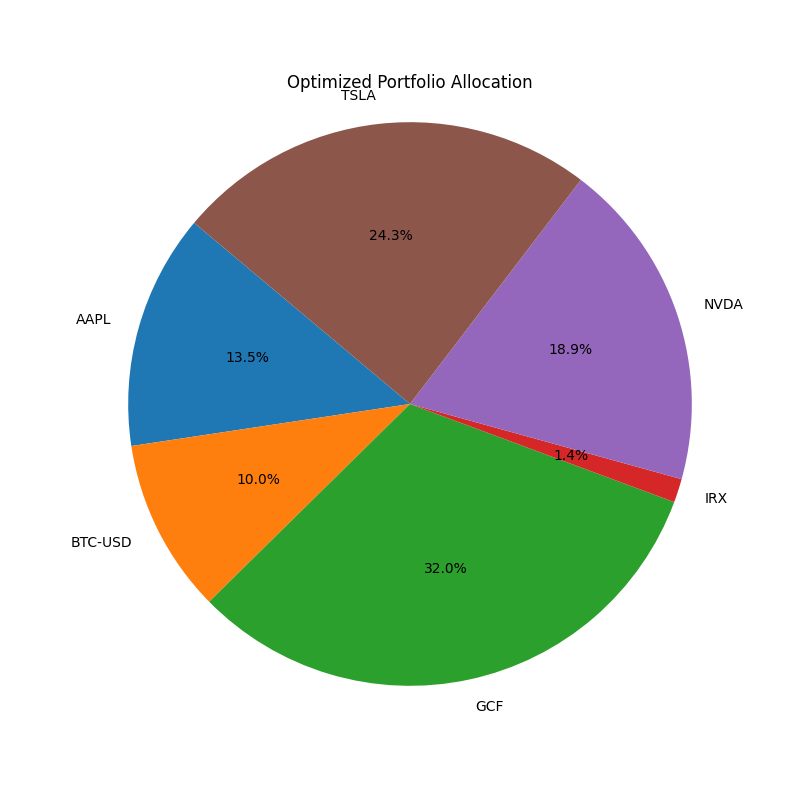
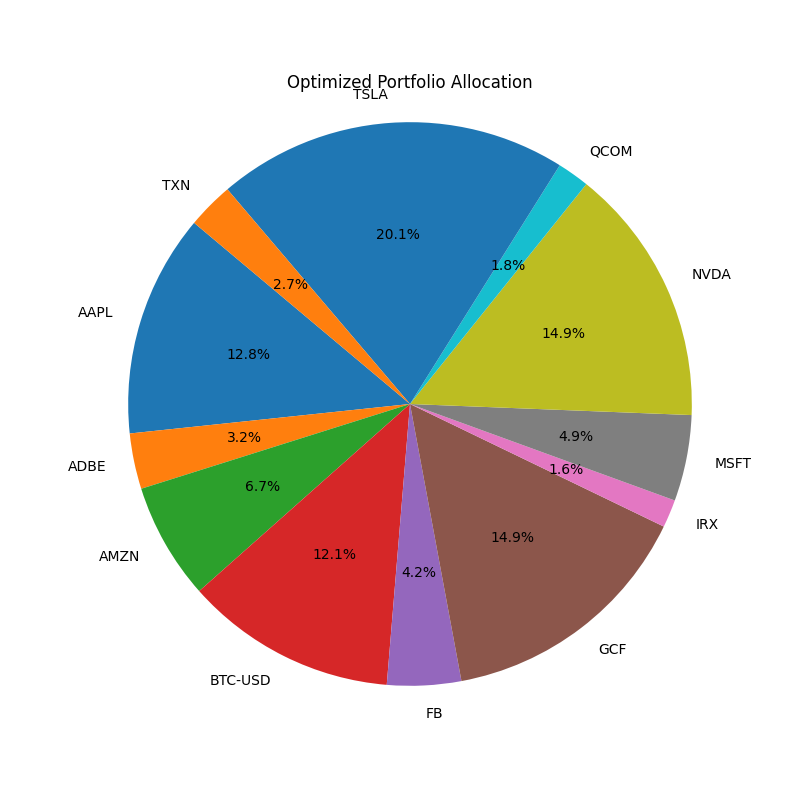
negative return fix

diff --git a/algoComparator.py b/algoComparator.py
@@ -1,0 +1,39 @@
+import numpy as np
+import pandas as pd
+
+# Genetic Algorithm Weights
+genetic_weights = pd.read_csv('genetic_algorithm/processed_data/optimized_portfolio.csv')["Weight"]
+
+# Mean-Variance Weights
+mean_variance_weights = np.array([0.0, 0.0, 0.0, 0.05011, 0.0, 0.01629, 0.00834, 
+                                   0.0, 0.14477, 0.0, 0.78049, 0.0])
+
+# Mean Returns
+mean_returns = np.array([0.002955, 0.002096, 0.001718, 0.004714, 0.001863, 0.000767, 
+                          0.032739, 0.002099, 0.004642, 0.002289, 0.007932, 0.001810])
+
+# Covariance Matrix (Load from your file)
+covariance_matrix = pd.read_csv("genetic_algorithm/processed_data/covariance_matrix.csv", index_col=0).values
+
+# Risk-Free Rate
+risk_free_rate = 0.0001
+
+# Function to calculate portfolio performance
+def portfolio_performance(weights, mean_returns, covariance_matrix):
+    portfolio_return = np.dot(weights, mean_returns)
+    portfolio_volatility = np.sqrt(np.dot(weights.T, np.dot(covariance_matrix, weights)))
+    sharpe_ratio = (portfolio_return - risk_free_rate) / portfolio_volatility if portfolio_volatility > 0 else 0
+    return portfolio_return, portfolio_volatility, sharpe_ratio
+
+# Genetic Algorithm Performance
+genetic_return, genetic_volatility, genetic_sharpe = portfolio_performance(genetic_weights, mean_returns, covariance_matrix)
+
+# Mean-Variance Performance
+mv_return, mv_volatility, mv_sharpe = portfolio_performance(mean_variance_weights, mean_returns, covariance_matrix)
+
+# Display Results
+print("Genetic Algorithm Portfolio:")
+print(f"Return: {genetic_return:.6f}, Volatility: {genetic_volatility:.6f}, Sharpe Ratio: {genetic_sharpe:.6f}")
+
+print("\nMean-Variance Portfolio:")
+print(f"Return: {mv_return:.6f}, Volatility: {mv_volatility:.6f}, Sharpe Ratio: {mv_sharpe:.6f}")

diff --git a/genetic_algorithm/genetic_algorithm.py b/genetic_algorithm/genetic_algorithm.py
@@ -20,7 +20,11 @@ class GeneticAlgorithm:
         Initialize a random population of portfolio weights.
         """
         return np.random.dirichlet(np.ones(self.num_assets), size=self.population_size)
-
+    def normalize_fitness(self,fitness_scores):
+        min_fitness = np.min(fitness_scores)
+        if min_fitness < 0:  # Shift scores to be non-negative
+            fitness_scores += abs(min_fitness)
+        return fitness_scores
     def evolve(self):
         """
         Run the Genetic Algorithm.
@@ -28,6 +32,7 @@ class GeneticAlgorithm:
         for generation in range(self.generations):
             fitness_scores = np.array([fitness_function(ind, self.mean_returns, self.covariance_matrix) 
                                         for ind in self.population])
+            fitness_scores = self.normalize_fitness(fitness_scores)
 
             print(f"Generation {generation + 1}: Best Fitness = {max(fitness_scores):.4f}")
 

diff --git a/genetic_algorithm/fitness.py b/genetic_algorithm/fitness.py
@@ -7,9 +7,6 @@ def fitness_function(weights, mean_returns, covariance_matrix):
     Fitness = Expected Return / Risk (Sharpe ratio proxy)
     """
     portfolio_return = np.dot(weights, mean_returns)
-    portfolio_risk = np.sqrt(np.dot(weights.T, np.dot(covariance_matrix, weights)))
-
-    if portfolio_risk == 0:
-        return 0
-
-    return portfolio_return / portfolio_risk
+    portfolio_volatility = np.sqrt(np.dot(weights.T, np.dot(covariance_matrix, weights)))
+    diversification_penalty = 1 - np.sum(np.square(weights))  # Higher for diversified portfolios
+    return (portfolio_return / portfolio_volatility) * diversification_penalty if portfolio_volatility > 0 else 0.0

diff --git a/genetic_algorithm/selection.py b/genetic_algorithm/selection.py
@@ -6,6 +6,9 @@ def select_parents(population, fitness_scores):
     Select two parents using roulette wheel selection.
     """
     total_fitness = np.sum(fitness_scores)
-    probabilities = fitness_scores / total_fitness if total_fitness > 0 else np.ones(len(fitness_scores)) / len(fitness_scores)
+    if total_fitness > 0:
+        probabilities = fitness_scores / total_fitness
+    else:  # All fitness scores are zero; use uniform probabilities
+        probabilities = np.ones(len(fitness_scores)) / len(fitness_scores)
     parents_indices = np.random.choice(len(population), size=2, p=probabilities)
     return population[parents_indices]
